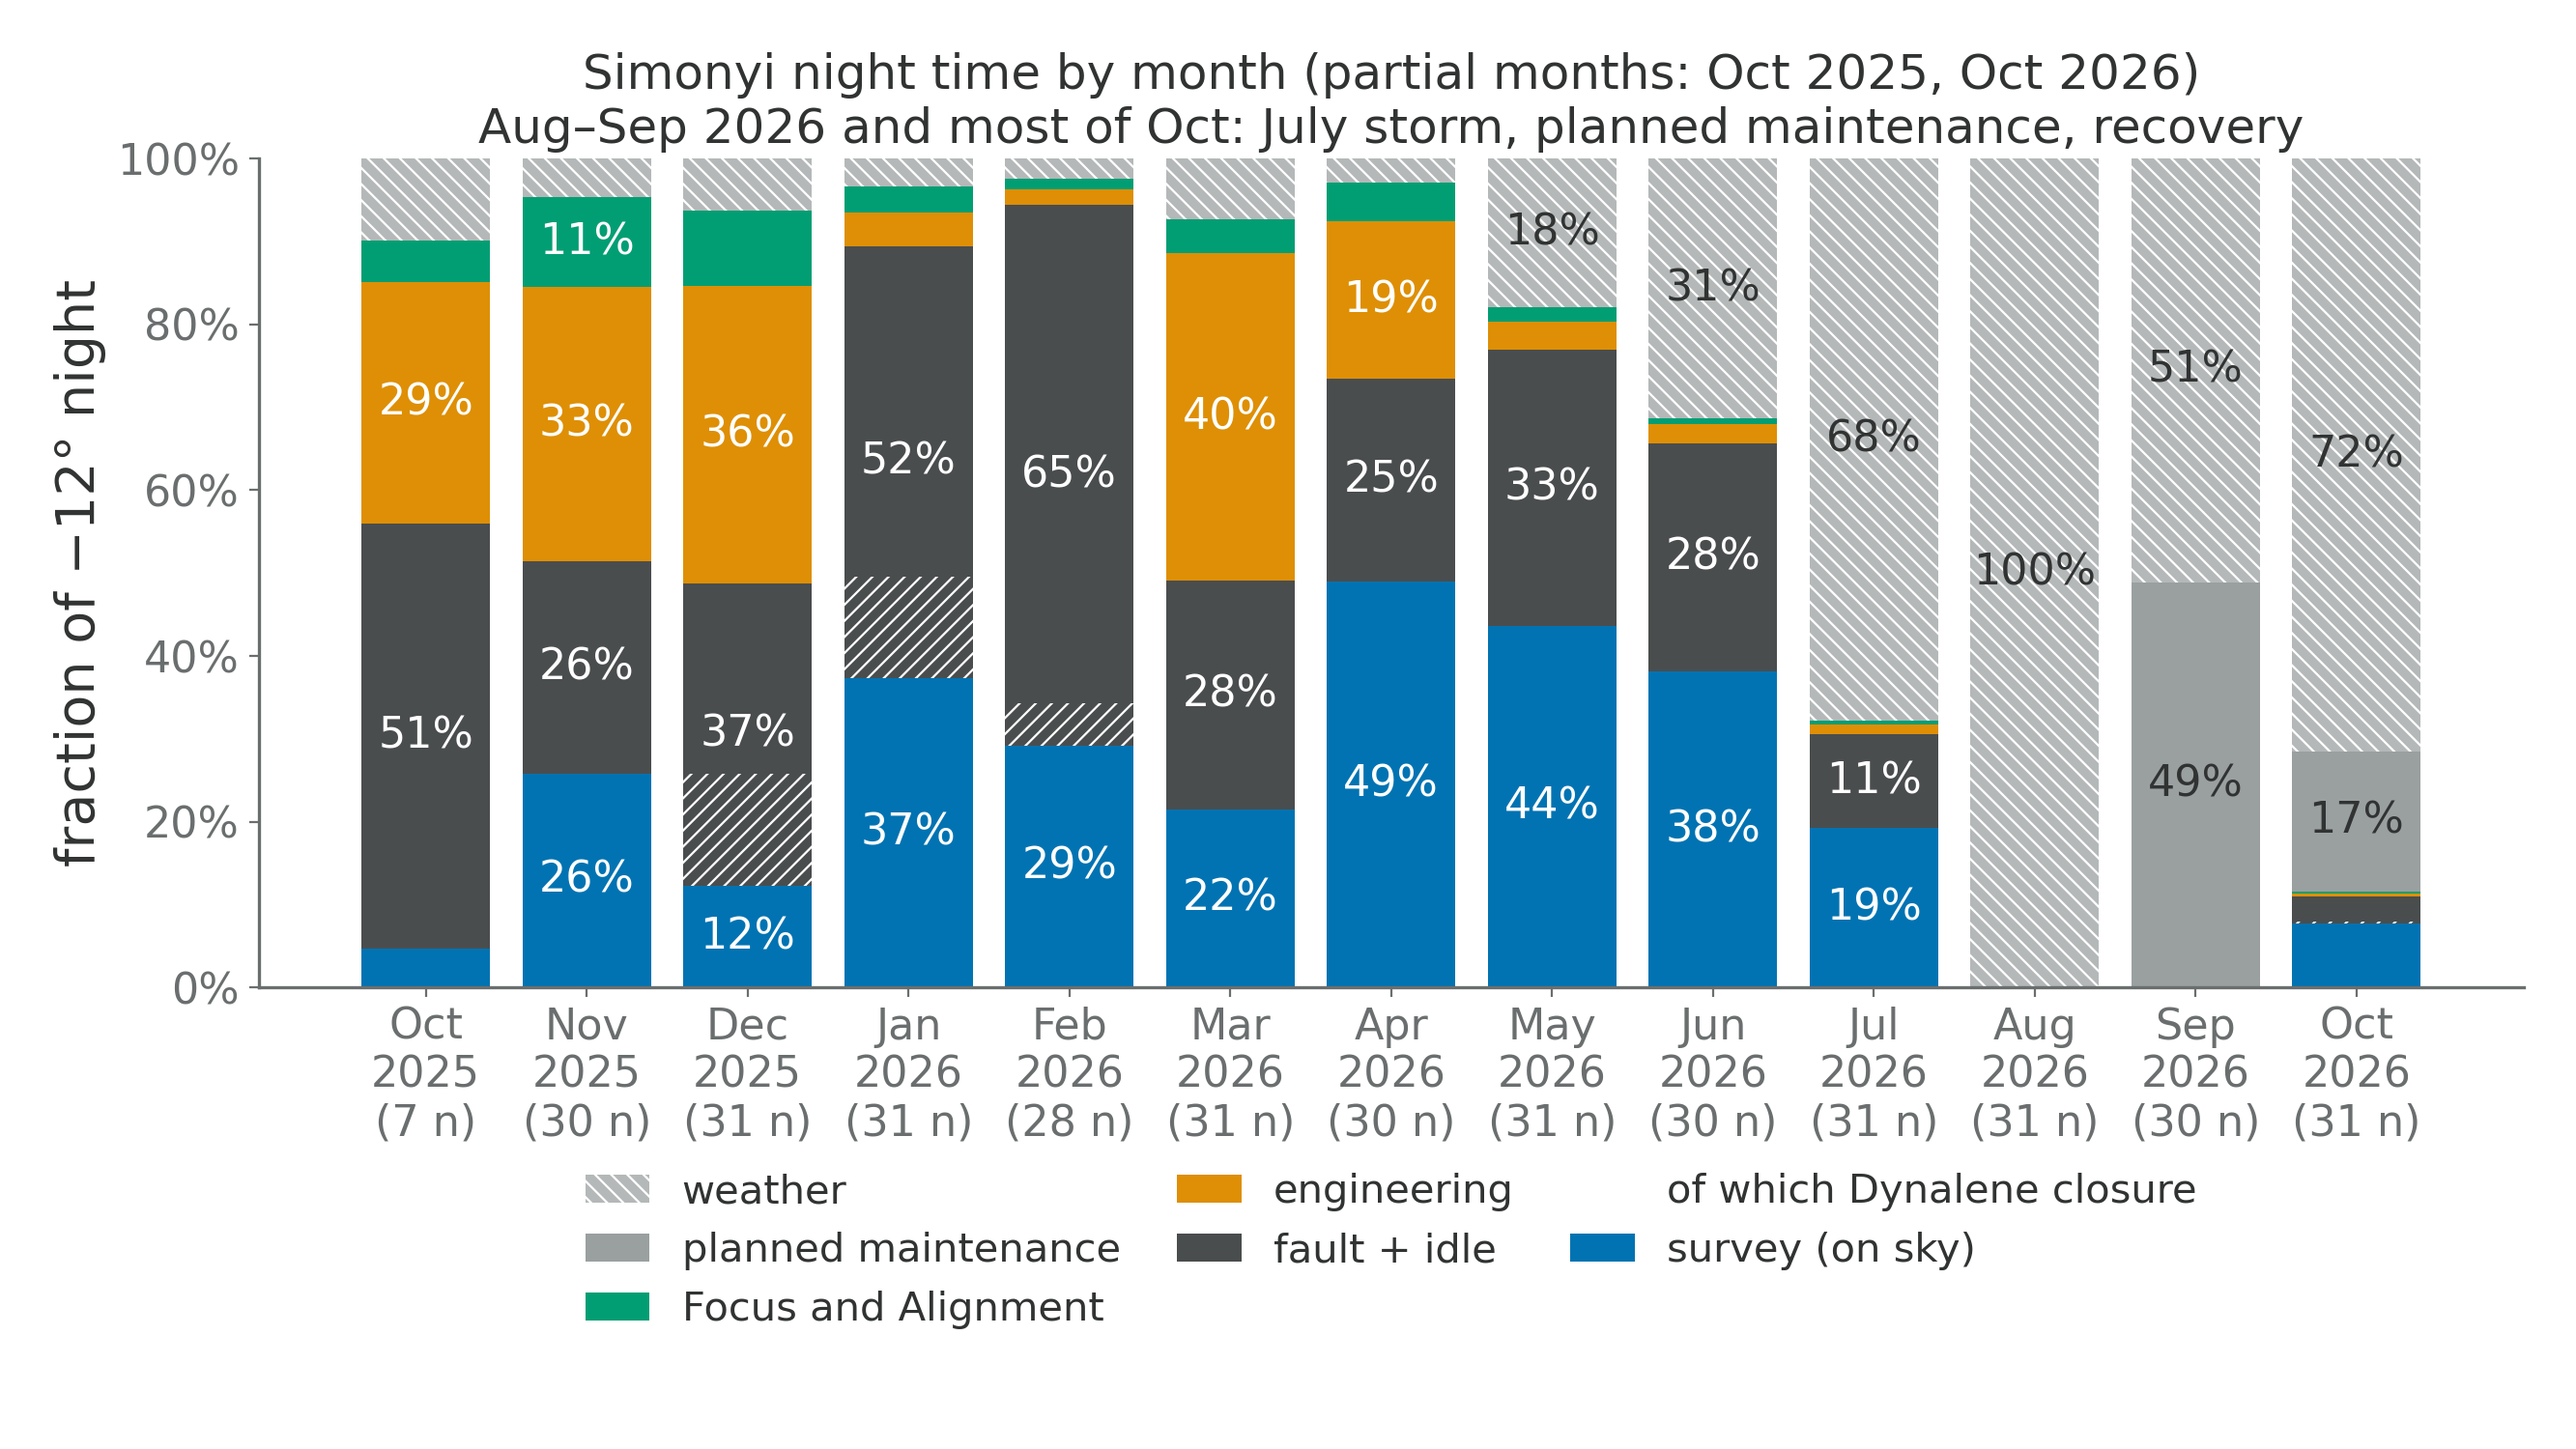
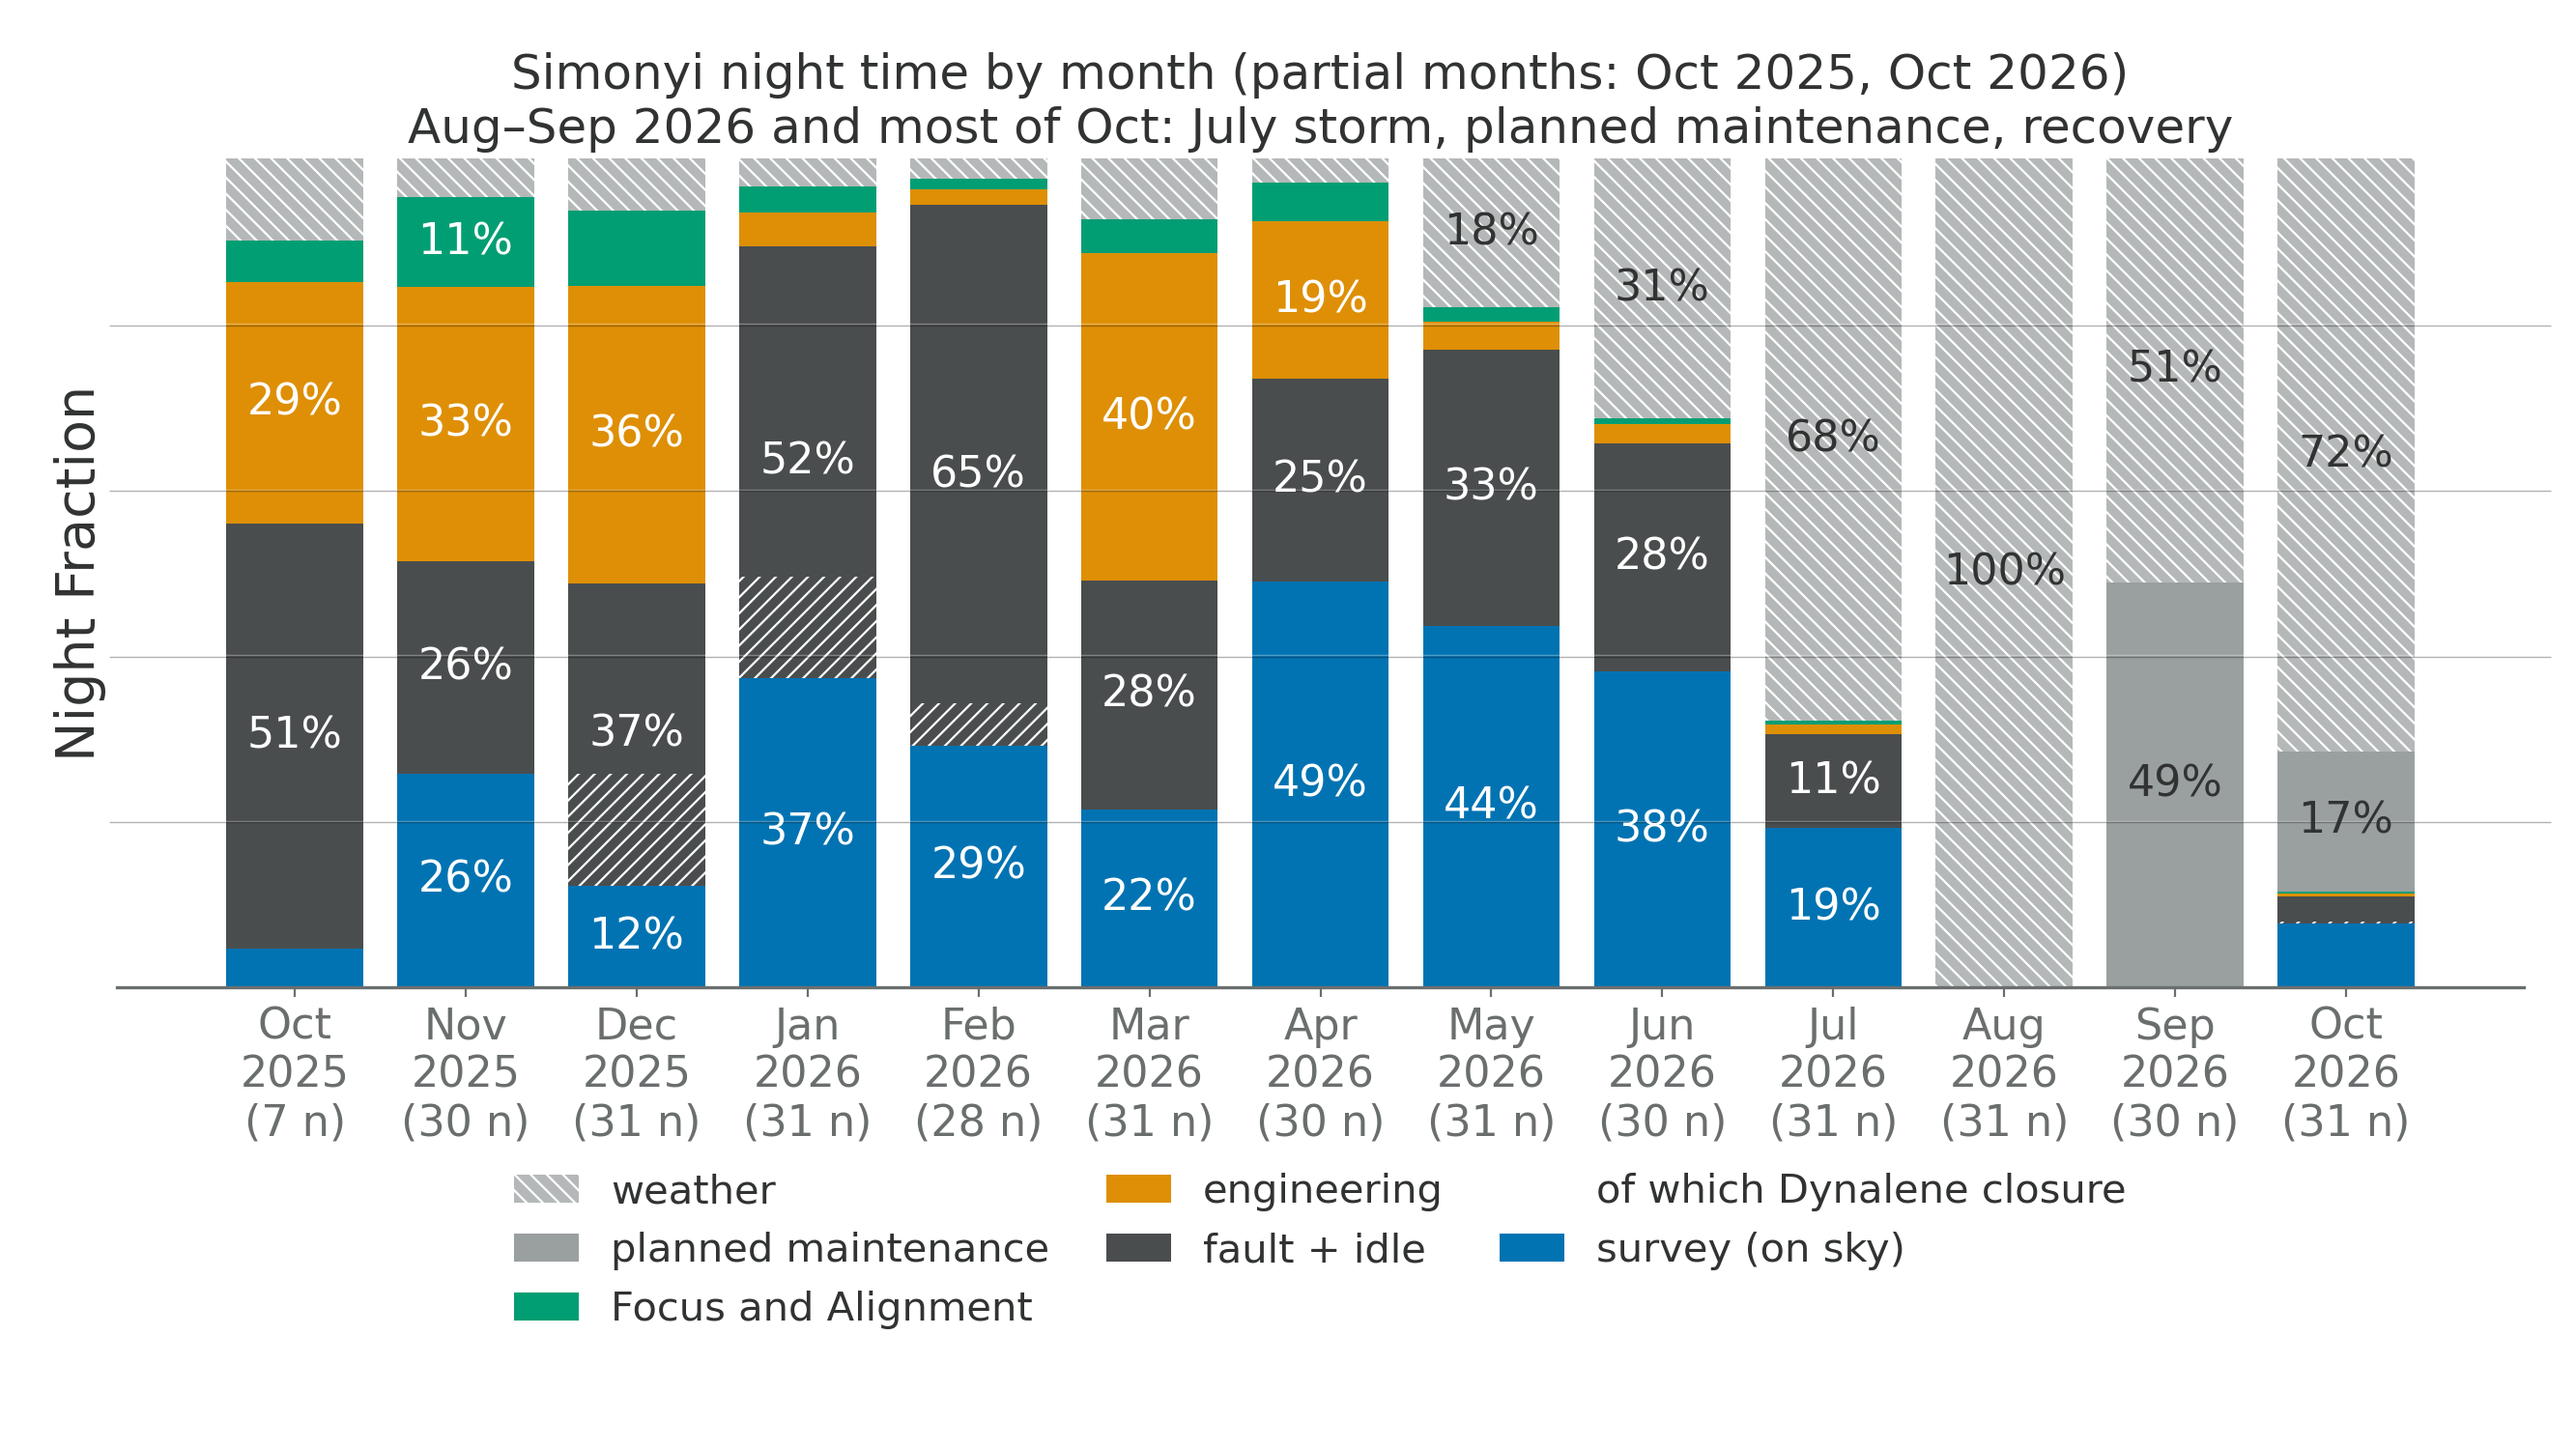
B1 monthly: y axis becomes a 20 % ruling, ylabel "Night Fraction"
_fraction_yaxis(), shared by monthly() and monthly_6bin(), replaces the y axis of
both fraction-of-night stacks: no left spine, no tick marks, no tick labels, and a
horizontal rule at each interior 20 % of the night. Dropping the labels gives the
width back to the bars (the 6-bin axes goes to 5.78 of the 6 in); the "Night
Fraction" ylabel is enough to read a 20 % ruling. 0 % is the x axis and 100 % the
top of the frame, so neither gets a rule. Rules run 3 pt past the axes on the left
and 10 pt on the right, re-fitted on every draw because the overhang is a length in
points while Line2D x-data is an axes fraction, final only after the layout runs.

Each rule is a pair of touching 0.5 pt hairlines, one white one black, both at
alpha 0.3, offset a quarter point either side so the pair straddles the level and
whichever tone matches the background drops away. A rule crosses backgrounds from
near-white (the margins, and the plot area above the short bars) to near-black
(Science is #024243), so no flat colour is visible on all of them: white and light
grey vanish in the margins, mid and dark grey vanish over Science and Engineering.
A white core over a dark halo also worked but read heavier, with a faint doubling
on the light greys. Alpha and width interact — 0.25 pt at alpha 0.25 was invisible
at 300 dpi — so GRID_ALPHA and GRID_LW carry a note; 0.3 was checked against 0.5 on
zoomed crops of the Apr/May teals.
[…]

Changed region(s): [[0.0, 0.0307, 0.934, 0.92]]

diff --git a/simonyi_time_loss/python/make_latam_figures.py b/simonyi_time_loss/python/make_latam_figures.py
@@ -132,6 +132,94 @@ def _save(fig, stem: str, dpi: int = 200):
     print("wrote", FIG / f"{stem}[_white].png")
 
 
+#: y-axis treatment of the fraction-of-night stacks (Bruno, 2026-11-02): no axis line, no
+#: ticks and no tick labels — only a horizontal rule every 20 % of the night, which the
+#: "Night Fraction" label is enough to read. Dropping the labels gives the width back to
+#: the bars.
+GRID_STEP = 0.20
+#: A rule crosses backgrounds from near-white (the margins either side, and the plot area
+#: above the short bars) to near-black (``Science`` is #024243), so **no flat colour is
+#: visible on all of them** — mock-ups on the real figure settled that on 2026-11-02:
+#: white and a light grey vanish in the margins, a mid or dark grey vanishes over Science
+#: and Engineering. So each rule is a **pair of touching hairlines, one white one black**
+#: (Bruno, 2026-11-02): whichever one matches the background drops away and the other
+#: carries the line, on a light or a dark slide alike. Each is offset half its width from
+#: the level, so the pair straddles it and the two touch rather than overlap.
+#:
+#: Weight matters more than it looks: the first try at 0.25 pt / alpha 0.25 was invisible
+#: at 300 dpi (0.25 pt ≈ 1 px, antialiased to a quarter-strength sub-pixel line, and the
+#: two tones partly cancel to the mid grey that had already failed). 0.5 pt at alpha 0.5
+#: is ~2 px each and renders cleanly.
+GRID_COLORS = ("white", "black")  # drawn in this order, first one above the level
+#: >>> opacity of both hairlines — the knob to tweak if the rules read too strong or too
+#: faint on the slide. 0.3 was checked against 0.5 on zoomed crops of the dark teals
+#: (Bruno, 2026-11-02) and still holds there; it is about as light as the pair goes. Note
+#: it is alpha *and* width together that decide whether a rule survives the raster: at
+#: 0.25 pt the same 0.25 alpha was invisible at 300 dpi. <<<
+GRID_ALPHA = 0.3
+GRID_LW = 0.5
+#: how far the rules run past the axes, left and right (Bruno, 2026-11-02). Asymmetric:
+#: just a nick on the left, where the "Night Fraction" label is, and a longer run on the
+#: right, where there is nothing else.
+GRID_OVERHANG_LEFT_PT = 3.0
+GRID_OVERHANG_RIGHT_PT = 10.0
+
+
+def _fraction_yaxis(ax, label: str = "Night Fraction"):
+    """Replace the y axis with horizontal rules every ``GRID_STEP`` of the night.
+
+    The spine, the tick marks and the tick labels all go. 0 % is the x axis and 100 % the
+    top of the frame, so neither gets a rule. Each rule is a white/black hairline pair
+    (see ``GRID_COLORS``) running ``GRID_OVERHANG_PT`` past the axes on both sides, so it
+    is re-fitted on every draw: the overhang is a length in points, and the axes width in
+    points is only known once the layout engine has run. Call after ``set_ylim``.
+    """
+    ax.spines["left"].set_visible(False)
+    ax.set_ylabel(label)
+    ax.tick_params(axis="y", length=0, labelleft=False)
+    # x in axes fraction so the overhang can be set as a fraction, y in data units so the
+    # rules follow the scale; clip_on=False lets them leave the axes.
+    blend = mpl.transforms.blended_transform_factory(ax.transAxes, ax.transData)
+    n = int(round(1.0 / GRID_STEP))
+    rules = []
+    for i in range(1, n):
+        y = i * GRID_STEP
+        for color, sign in zip(GRID_COLORS, (+1, -1)):
+            # half-width offset in points, so the two lines touch at the level itself
+            # whatever the figure dpi
+            offset = mpl.transforms.ScaledTranslation(
+                0, sign * (GRID_LW / 2) / 72.0, ax.figure.dpi_scale_trans
+            )
+            rules.append(
+                ax.add_line(
+                    mpl.lines.Line2D(
+                        [0, 1],
+                        [y, y],
+                        transform=blend + offset,
+                        color=color,
+                        alpha=GRID_ALPHA,
+                        linewidth=GRID_LW,
+                        solid_capstyle="butt",
+                        clip_on=False,
+                        zorder=2.5,  # over the bars (1), under the in-bar values (3)
+                    )
+                )
+            )
+
+    def _fit(_event=None):
+        w = ax.get_window_extent().width  # pixels, final only after the layout runs
+        if w <= 0:
+            return
+        px_per_pt = ax.figure.dpi / 72.0
+        left = GRID_OVERHANG_LEFT_PT * px_per_pt / w
+        right = GRID_OVERHANG_RIGHT_PT * px_per_pt / w
+        for ln in rules:
+            ln.set_xdata([-left, 1.0 + right])
+
+    ax.figure.canvas.mpl_connect("draw_event", _fit)
+    _fit()
+
+
 def _stack(ax, x, t: pd.DataFrame, width: float, denom=None):
     """Stacked bars: weather hatched (palette rule), Dynalene hatched inside fault + idle."""
     bottom = np.zeros(len(t))
@@ -409,8 +497,7 @@ def monthly(t: pd.DataFrame, min_label: float = 0.10):
             ]
         )
         ax.set_ylim(0, 1)
-        ax.set_ylabel(f"fraction of {NIGHT} night")
-        ax.yaxis.set_major_formatter(mpl.ticker.PercentFormatter(1.0))
+        _fraction_yaxis(ax)
         handles_, labels_ = ax.get_legend_handles_labels()
         order = PRECEDENCE[:-1] + [DYN_LABEL, PRECEDENCE[-1]]
         hl = dict(zip(labels_, handles_))
@@ -591,8 +678,7 @@ def monthly_6bin(t: pd.DataFrame):
         ax.set_ylim(0, 1)
         # bars run edge to edge; no empty margin either side
         ax.set_xlim(-0.5 - 0.03, len(mo) - 0.5 + 0.03)
-        ax.set_ylabel(f"fraction of {NIGHT} night")
-        ax.yaxis.set_major_formatter(mpl.ticker.PercentFormatter(1.0, decimals=0))
+        _fraction_yaxis(ax)
         # Value labels, white, centred on their own segment. Two gates (Bruno,
         # 2026-11-02): a hard editorial floor of 5 % — below that the number is not worth
         # reading off the slide — and a measured fit test, LABEL_PT + 2 pt converted to an

diff --git a/simonyi_time_loss/README.md b/simonyi_time_loss/README.md
@@ -359,6 +359,26 @@ plot height); layout pads are 0.01; the legend is three columns × two rows. Bec
 column-first, the handle order is **transposed** so it reads left → right in stack order (Weather, Planned
 maintenance, Fault + idle / Alignment, Engineering, Science).
 
+**The y axis** (Bruno, 2026-11-02) is a horizontal ruling instead of an axis: `_fraction_yaxis()`, shared by
+`monthly()` and `monthly_6bin()`, drops the left spine, the tick marks *and* the tick labels — the "Night
+Fraction" label alone is enough to read a 20 % ruling, and dropping the labels gives the width back to the bars
+(the 6-bin axes goes to 5.78 of the 6 in). A rule is drawn at each interior 20 %; 0 % is the x axis and 100 % the
+top of the frame, so neither gets one. Each runs past the axes — **3 pt left** (a nick, beside the ylabel) and
+**10 pt right** — re-fitted on every draw, since the overhang is a length in points but `Line2D` x-data is an
+axes fraction and the axes width is only final once the layout engine has run.
+
+Each rule is a **pair of touching 0.5 pt hairlines, one white one black, both at alpha 0.3**, offset ±¼ pt so the
+pair straddles the level. Whichever tone matches the background drops away and the other carries the line. That
+is not fussiness — the rules cross backgrounds from near-white (the margins, and the plot area above the short
+bars) to near-black (Science is `#024243`), and **no flat colour is visible on all of them**. Five attempts, each
+rendered on the real figure, settled it: white and light grey `#CCCCCC` vanish in the margins; mid grey
+`#6E7374` and `#333333` vanish over Science and Engineering; white-inside-with-ink-overhangs looks like a drawing
+error at the join. A white core over a dark halo (`path_effects`) also worked but read heavier, with a faint
+doubling on the light greys. Tune the weight at `GRID_ALPHA` / `GRID_LW`, but note the two interact: the first
+try at 0.25 pt / alpha 0.25 was invisible at 300 dpi (≈ 1 px antialiased to quarter strength, and the two tones
+composite toward the mid grey that had already failed). 0.3 at 0.5 pt was checked against 0.5 on zoomed crops of
+the Apr/May teals and holds.
+
 The six bins are the categories the classifier already produces — no new classification. Stack bottom → top,
 legend top → bottom in the same order, both from the single constant `SLIDE2_CAT`:
 
